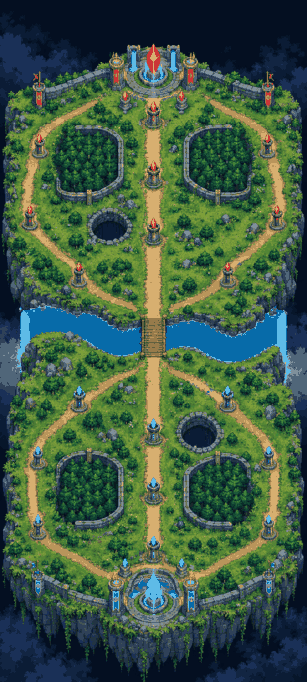
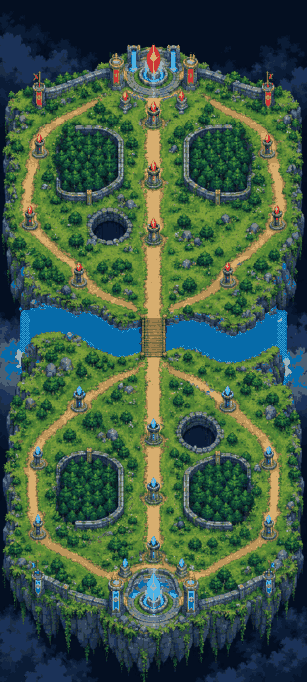
rift: the falls dithered into the river instead of a pale slab; glow cache so thirty lamps cost a lookup

diff --git a/android/core/src/main/kotlin/dev/almanac/island/BakedRiftScene.kt b/android/core/src/main/kotlin/dev/almanac/island/BakedRiftScene.kt
@@ -46,6 +46,7 @@ class BakedRiftScene(
 
     /** A glow's falloff, by radius: built once, reused every frame. */
     private val falloff = HashMap<Int, DoubleArray>()
+    private val glowCache = HashMap<Int, IntArray>()
 
     // Noise, precomputed once and read by offset: a per-pixel noise call costs more than the whole picture.
     private val tileN = 128
@@ -421,26 +422,50 @@ class BakedRiftScene(
         }
     }
 
+    /**
+     * A glow, laid on. The strength is quantised to sixteenths and the whole thing cached, so a lamp that pulses costs
+     * a lookup and an add a pixel, not a falloff and three multiplies: thirty lamps a frame is most of the frame.
+     */
     private fun addGlow(cx: Double, cy: Double, r: Double, colour: Int, strength: Double) {
         val rad = max(2, r.toInt())
-        val f = falloffFor(rad)
+        val step = (clamp(strength) * 16).roundToInt().coerceIn(0, 16)
+        if (step == 0) return
+        val key = (rad shl 12) or (colour and 0xFFFFFF ushr 8 shl 4) or step
+        val lit = glowCache.getOrPut(key) {
+            val f = falloffFor(rad)
+            val n = rad * 2 + 1
+            val out = IntArray(n * n)
+            val s = step / 16.0
+            for (k in 0 until n * n) {
+                val a = f[k] * s
+                if (a < 0.01) continue
+                out[k] = (
+                    ((redOf(colour) * a).roundToInt() shl 16) or
+                        ((greenOf(colour) * a).roundToInt() shl 8) or
+                        (blueOf(colour) * a).roundToInt()
+                    )
+            }
+            out
+        }
+        val n = rad * 2 + 1
         val x0 = (cx - rad).toInt()
         val y0 = (cy - rad).toInt()
-        for (dy in 0..rad * 2) {
+        for (dy in 0 until n) {
             val y = y0 + dy
             if (y < 0 || y >= H) continue
-            for (dx in 0..rad * 2) {
+            val row = y * W
+            val gRow = dy * n
+            for (dx in 0 until n) {
+                val add = lit[gRow + dx]
+                if (add == 0) continue
                 val x = x0 + dx
                 if (x < 0 || x >= W) continue
-                val a = f[dy * (rad * 2 + 1) + dx] * strength
-                if (a < 0.01) continue
-                val i = y * W + x
-                val src = frame[i]
-                frame[i] = rgb(
-                    redOf(src) + (255 - redOf(src)) * a * redOf(colour) / 255.0,
-                    greenOf(src) + (255 - greenOf(src)) * a * greenOf(colour) / 255.0,
-                    blueOf(src) + (255 - blueOf(src)) * a * blueOf(colour) / 255.0,
-                )
+                val i = row + x
+                val c = frame[i]
+                val r2 = min(255, ((c ushr 16) and 255) + ((add ushr 16) and 255))
+                val g2 = min(255, ((c ushr 8) and 255) + ((add ushr 8) and 255))
+                val b2 = min(255, (c and 255) + (add and 255))
+                frame[i] = (0xFF shl 24) or (r2 shl 16) or (g2 shl 8) or b2
             }
         }
     }

diff --git a/tools/rift_bake.py b/tools/rift_bake.py
@@ -278,6 +278,51 @@ def majority(w, h, cls, rounds=2):
     return cls
 
 
+def clean_void(w, h, px, cls):
+    """The emptiness outside the plateau must stay empty.
+
+    At 307 pixels wide, a waterfall at the cliff's edge is a handful of pale pixels; quantised, they become a flat
+    pale rectangle floating in the dark, which reads as a mistake. So every pale pixel out in the emptiness is
+    repainted from the emptiness itself: a smooth gradient between the two ends of the void, taken from the void's own
+    colours at the top and the bottom of the picture.
+    """
+    void_rows = {}
+    for y in range(h):
+        row = []
+        for x in range(w):
+            i = y * w + x
+            if cls[i] != 0:
+                continue
+            light = (px[i * 3] * 299 + px[i * 3 + 1] * 587 + px[i * 3 + 2] * 114) // 1000
+            if light < 34:
+                row.append((px[i * 3], px[i * 3 + 1], px[i * 3 + 2]))
+        if row:
+            row.sort(key=lambda c: c[0] * 299 + c[1] * 587 + c[2] * 114)
+            void_rows[y] = row[len(row) // 2]
+    if not void_rows:
+        return px
+    ys = sorted(void_rows)
+    repaired = 0
+    for y in range(h):
+        top = void_rows[ys[0]]
+        # the nearest row that had any darkness in it
+        near = void_rows.get(y)
+        if near is None:
+            near = void_rows[min(ys, key=lambda v: abs(v - y))]
+        for x in range(w):
+            i = y * w + x
+            if cls[i] != 0:
+                continue
+            light = (px[i * 3] * 299 + px[i * 3 + 1] * 587 + px[i * 3 + 2] * 114) // 1000
+            if light <= 46:
+                continue
+            px[i * 3] = near[0]
+            px[i * 3 + 1] = near[1]
+            px[i * 3 + 2] = near[2]
+            repaired += 1
+    return px, repaired
+
+
 def masks(w, h, px):
     cls = bytearray(w * h)
     for i in range(w * h):
@@ -319,7 +364,54 @@ def masks(w, h, px):
         if grown[i] and cls[i] == 1:
             cls[i] = 2
 
+    # the falls at the two ends of the river, at 300 pixels wide, are a few pale pixels that quantise into a flat
+    # pale slab. Give them back the river's own dark water instead of a colour the art never meant to be there.
+    dark = []
+    for i in range(w * h):
+        if cls[i] != 4:
+            continue
+        light = (px[i * 3] * 299 + px[i * 3 + 1] * 587 + px[i * 3 + 2] * 114) // 1000
+        if light < 120:
+            dark.append((px[i * 3], px[i * 3 + 1], px[i * 3 + 2]))
+    if dark:
+        dark.sort(key=lambda c: c[0] * 299 + c[1] * 587 + c[2] * 114)
+        river = dark[len(dark) // 2]
+        paled = 0
+        for y in range(h):
+            for x in range(w):
+                i = y * w + x
+                if cls[i] != 4:
+                    continue
+                if 0.06 < x / w < 0.94:
+                    continue
+                light = (px[i * 3] * 299 + px[i * 3 + 1] * 587 + px[i * 3 + 2] * 114) // 1000
+                if light <= 104:
+                    continue
+                # a waterfall, not a slab: dither the pale strip down into the river's own colour
+                px[i * 3], px[i * 3 + 1], px[i * 3 + 2] = river
+                paled += 1
+        # whatever light water is left at the two ends is the falls: dither it between two tones so it reads as water
+        # coming down the cliff instead of a flat rectangle pasted onto the dark
+        bayer = [0, 8, 2, 10, 12, 4, 14, 6, 3, 11, 1, 9, 15, 7, 13, 5]
+        lighter = (min(255, river[0] + 46), min(255, river[1] + 52), min(255, river[2] + 40))
+        fell = 0
+        for y in range(h):
+            for x in range(w):
+                i = y * w + x
+                if cls[i] != 4 or not (0.06 < x / w < 0.94):
+                    continue
+                light = (px[i * 3] * 299 + px[i * 3 + 1] * 587 + px[i * 3 + 2] * 114) // 1000
+                if light <= 104:
+                    continue
+                thr = (bayer[((y & 3) << 2) | (x & 3)] + 0.5) / 16.0
+                pick = lighter if thr < (light - 104) / 120.0 else river
+                px[i * 3], px[i * 3 + 1], px[i * 3 + 2] = pick
+                fell += 1
+        print('pale water at the river ends given back to the river: %d pixels, %d dithered as falls' % (paled, fell))
+
     cls = majority(w, h, cls, rounds=1)
+    px, repaired = clean_void(w, h, px, cls)
+    print('emptiness repainted: %d pale pixels put back into the dark' % repaired)
 
     m = bytearray(w * h * 3)
     counts = {0: 0, 1: 0, 2: 0, 3: 0, 4: 0}
